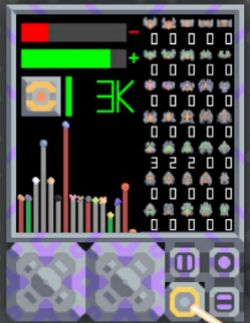
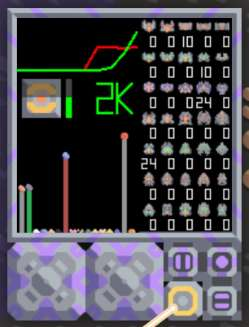
Display power in&out line graph

diff --git a/README.md b/README.md
@@ -492,14 +492,12 @@ Notice: 距离匹配造成匹配效率降低，现默认关闭。要启用，请
 这里可能是一些工具，或者一些娱乐向蓝图。
 
 #### 全局监视器
-v1.3(20210929)<br>
-显示单位个数(0\~99)、净发电量(0K\~99K)、能量I/O和核心物品统计(需要生产任意一种单位)。这可能是我技术力的极限了，转载请保留内置信息板以便用户获取后续更新。<br>
+v1.4(20211001)<br>
+显示单位个数(0\~99)、净发电量(0K\~99K)、能量I/O记录和核心物品统计(需要生产任意一种单位)。这可能是我技术力的极限了，转载请保留内置信息板以便用户获取后续更新。<br>
 获取：
 [CDN](https://cdn.jsdelivr.net/gh/Hexrotor/Mindustry-Myblueprint/base64text/monitorplus.txt)
 [PAGE](https://hexrotor.github.io/Mindustry-Myblueprint/base64text/monitorplus.txt)
 [RAW](https://raw.githubusercontent.com/Hexrotor/Mindustry-Myblueprint/main/base64text/monitorplus.txt)
-
-1.4beta：[CDN](https://cdn.jsdelivr.net/gh/Hexrotor/Mindustry-Myblueprint/base64text/beta/monitorplus.txt)
 
 <details><summary>展开图片</summary>
 
